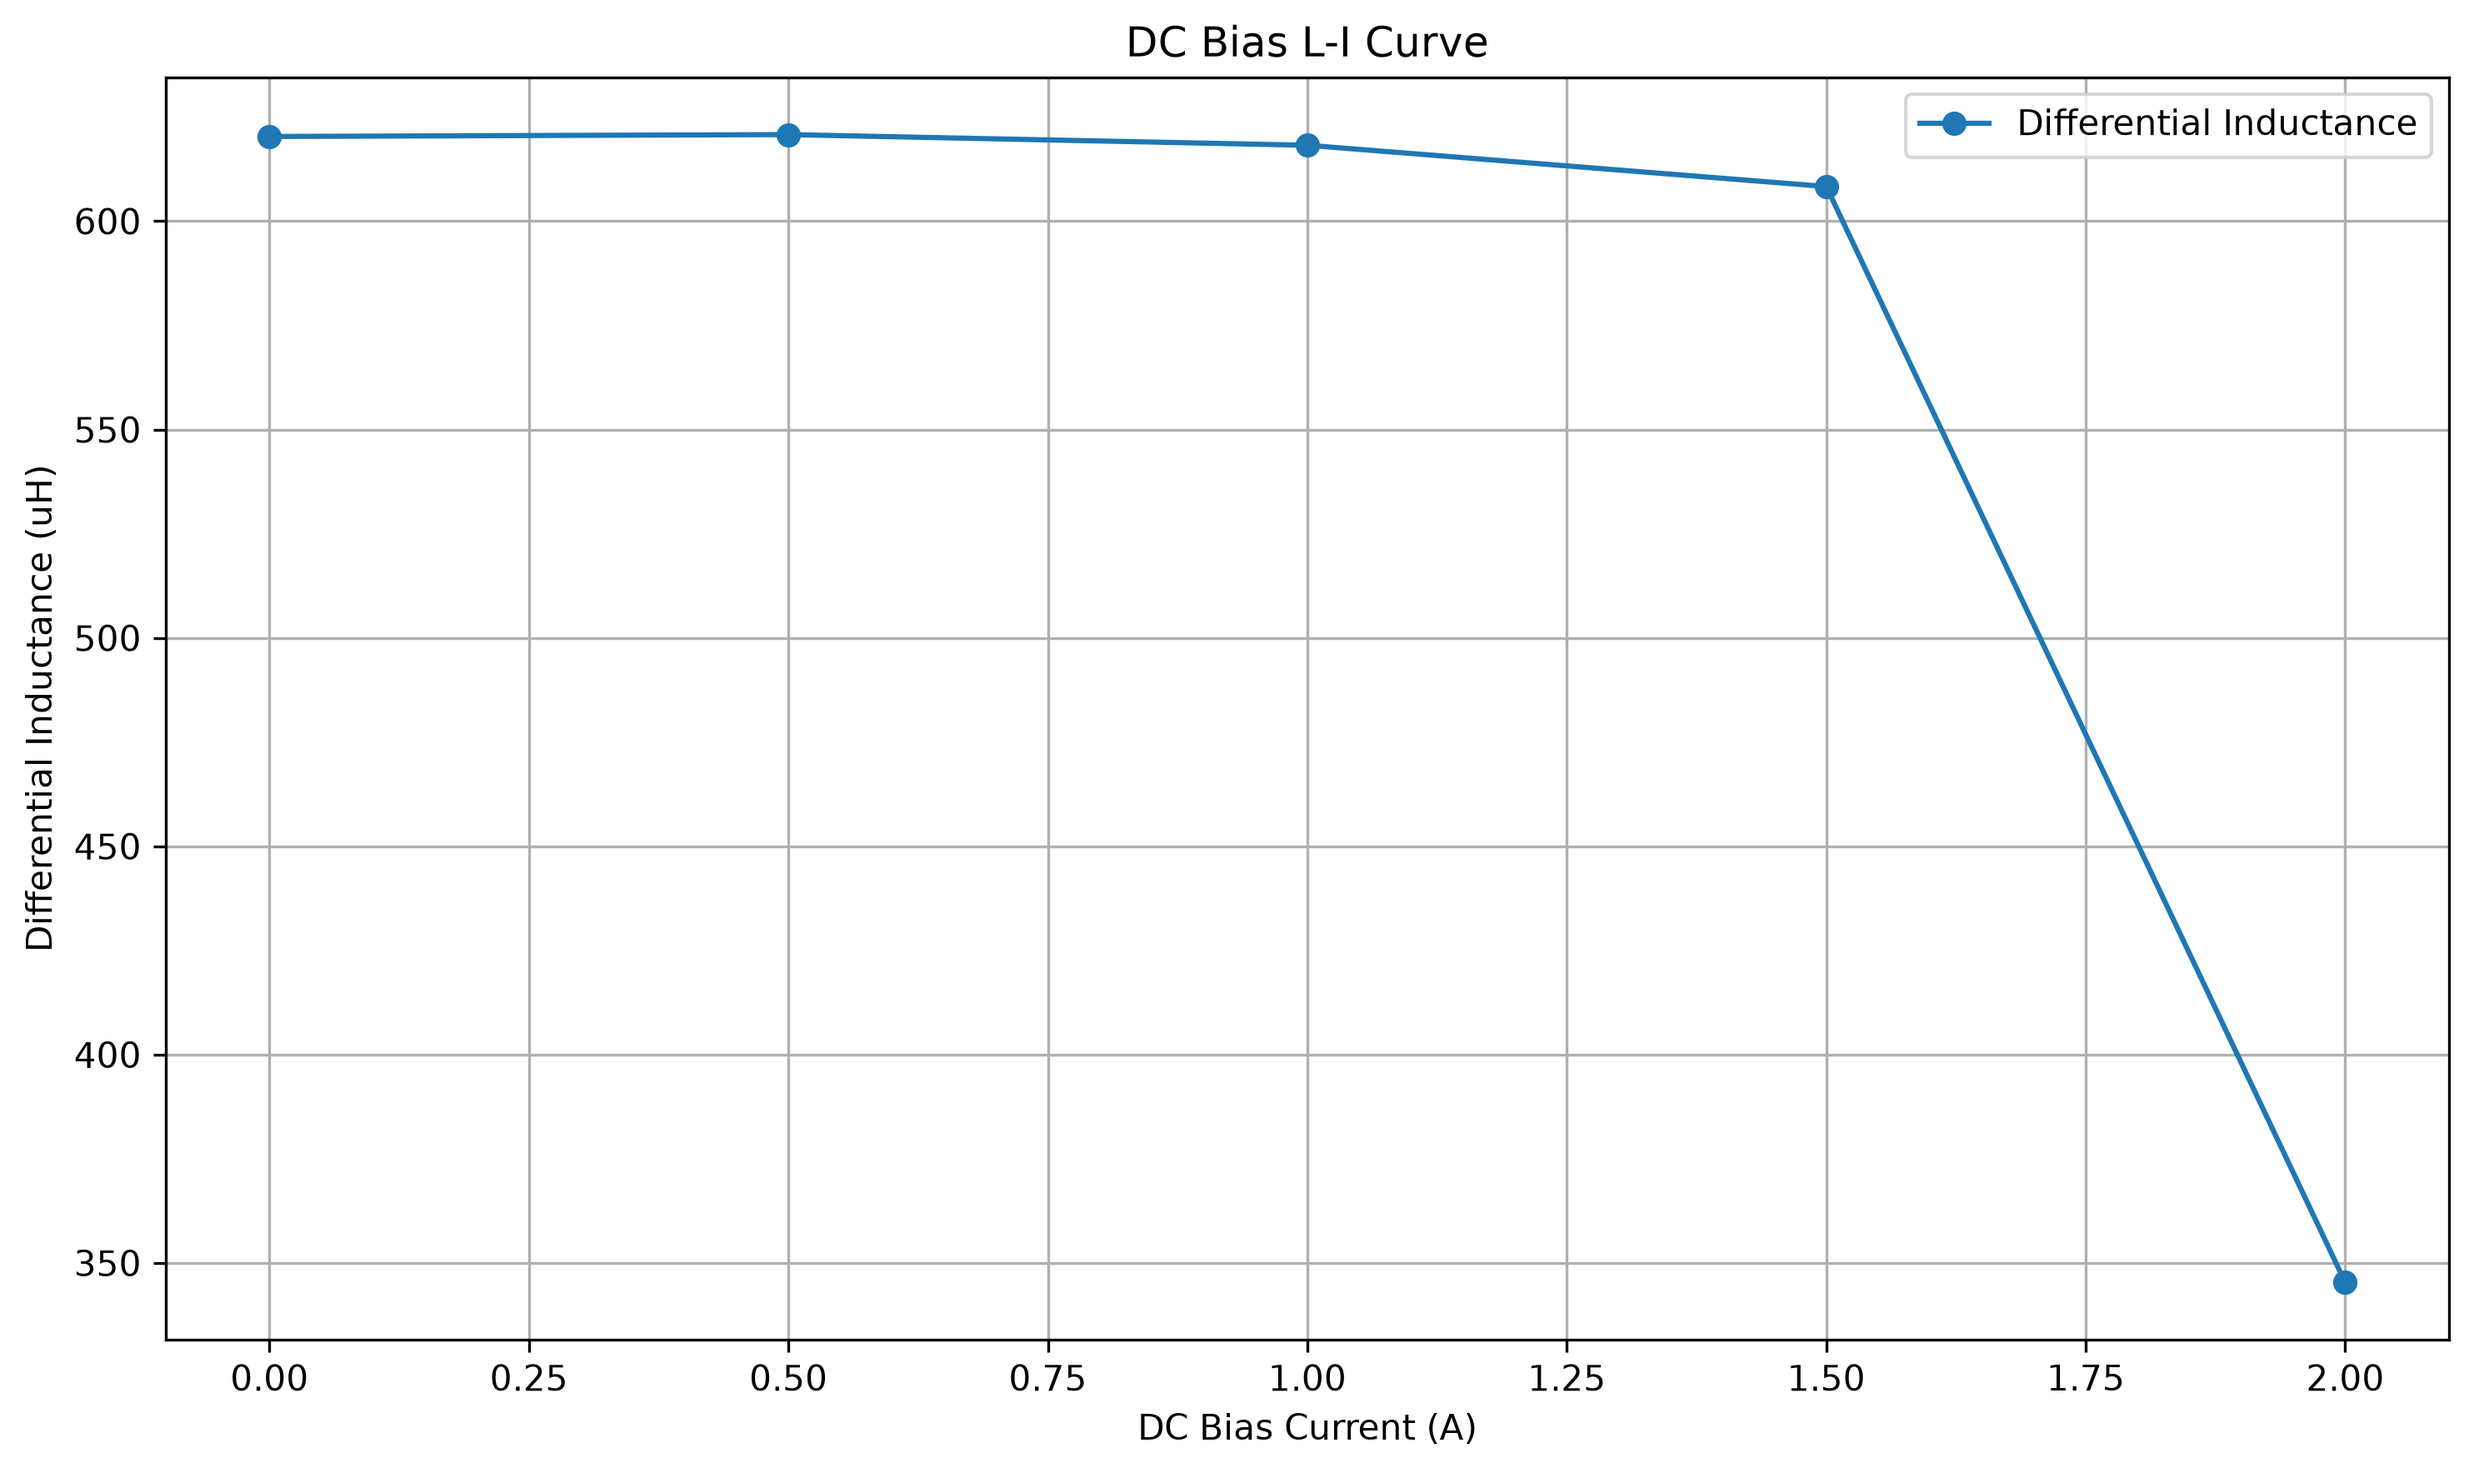
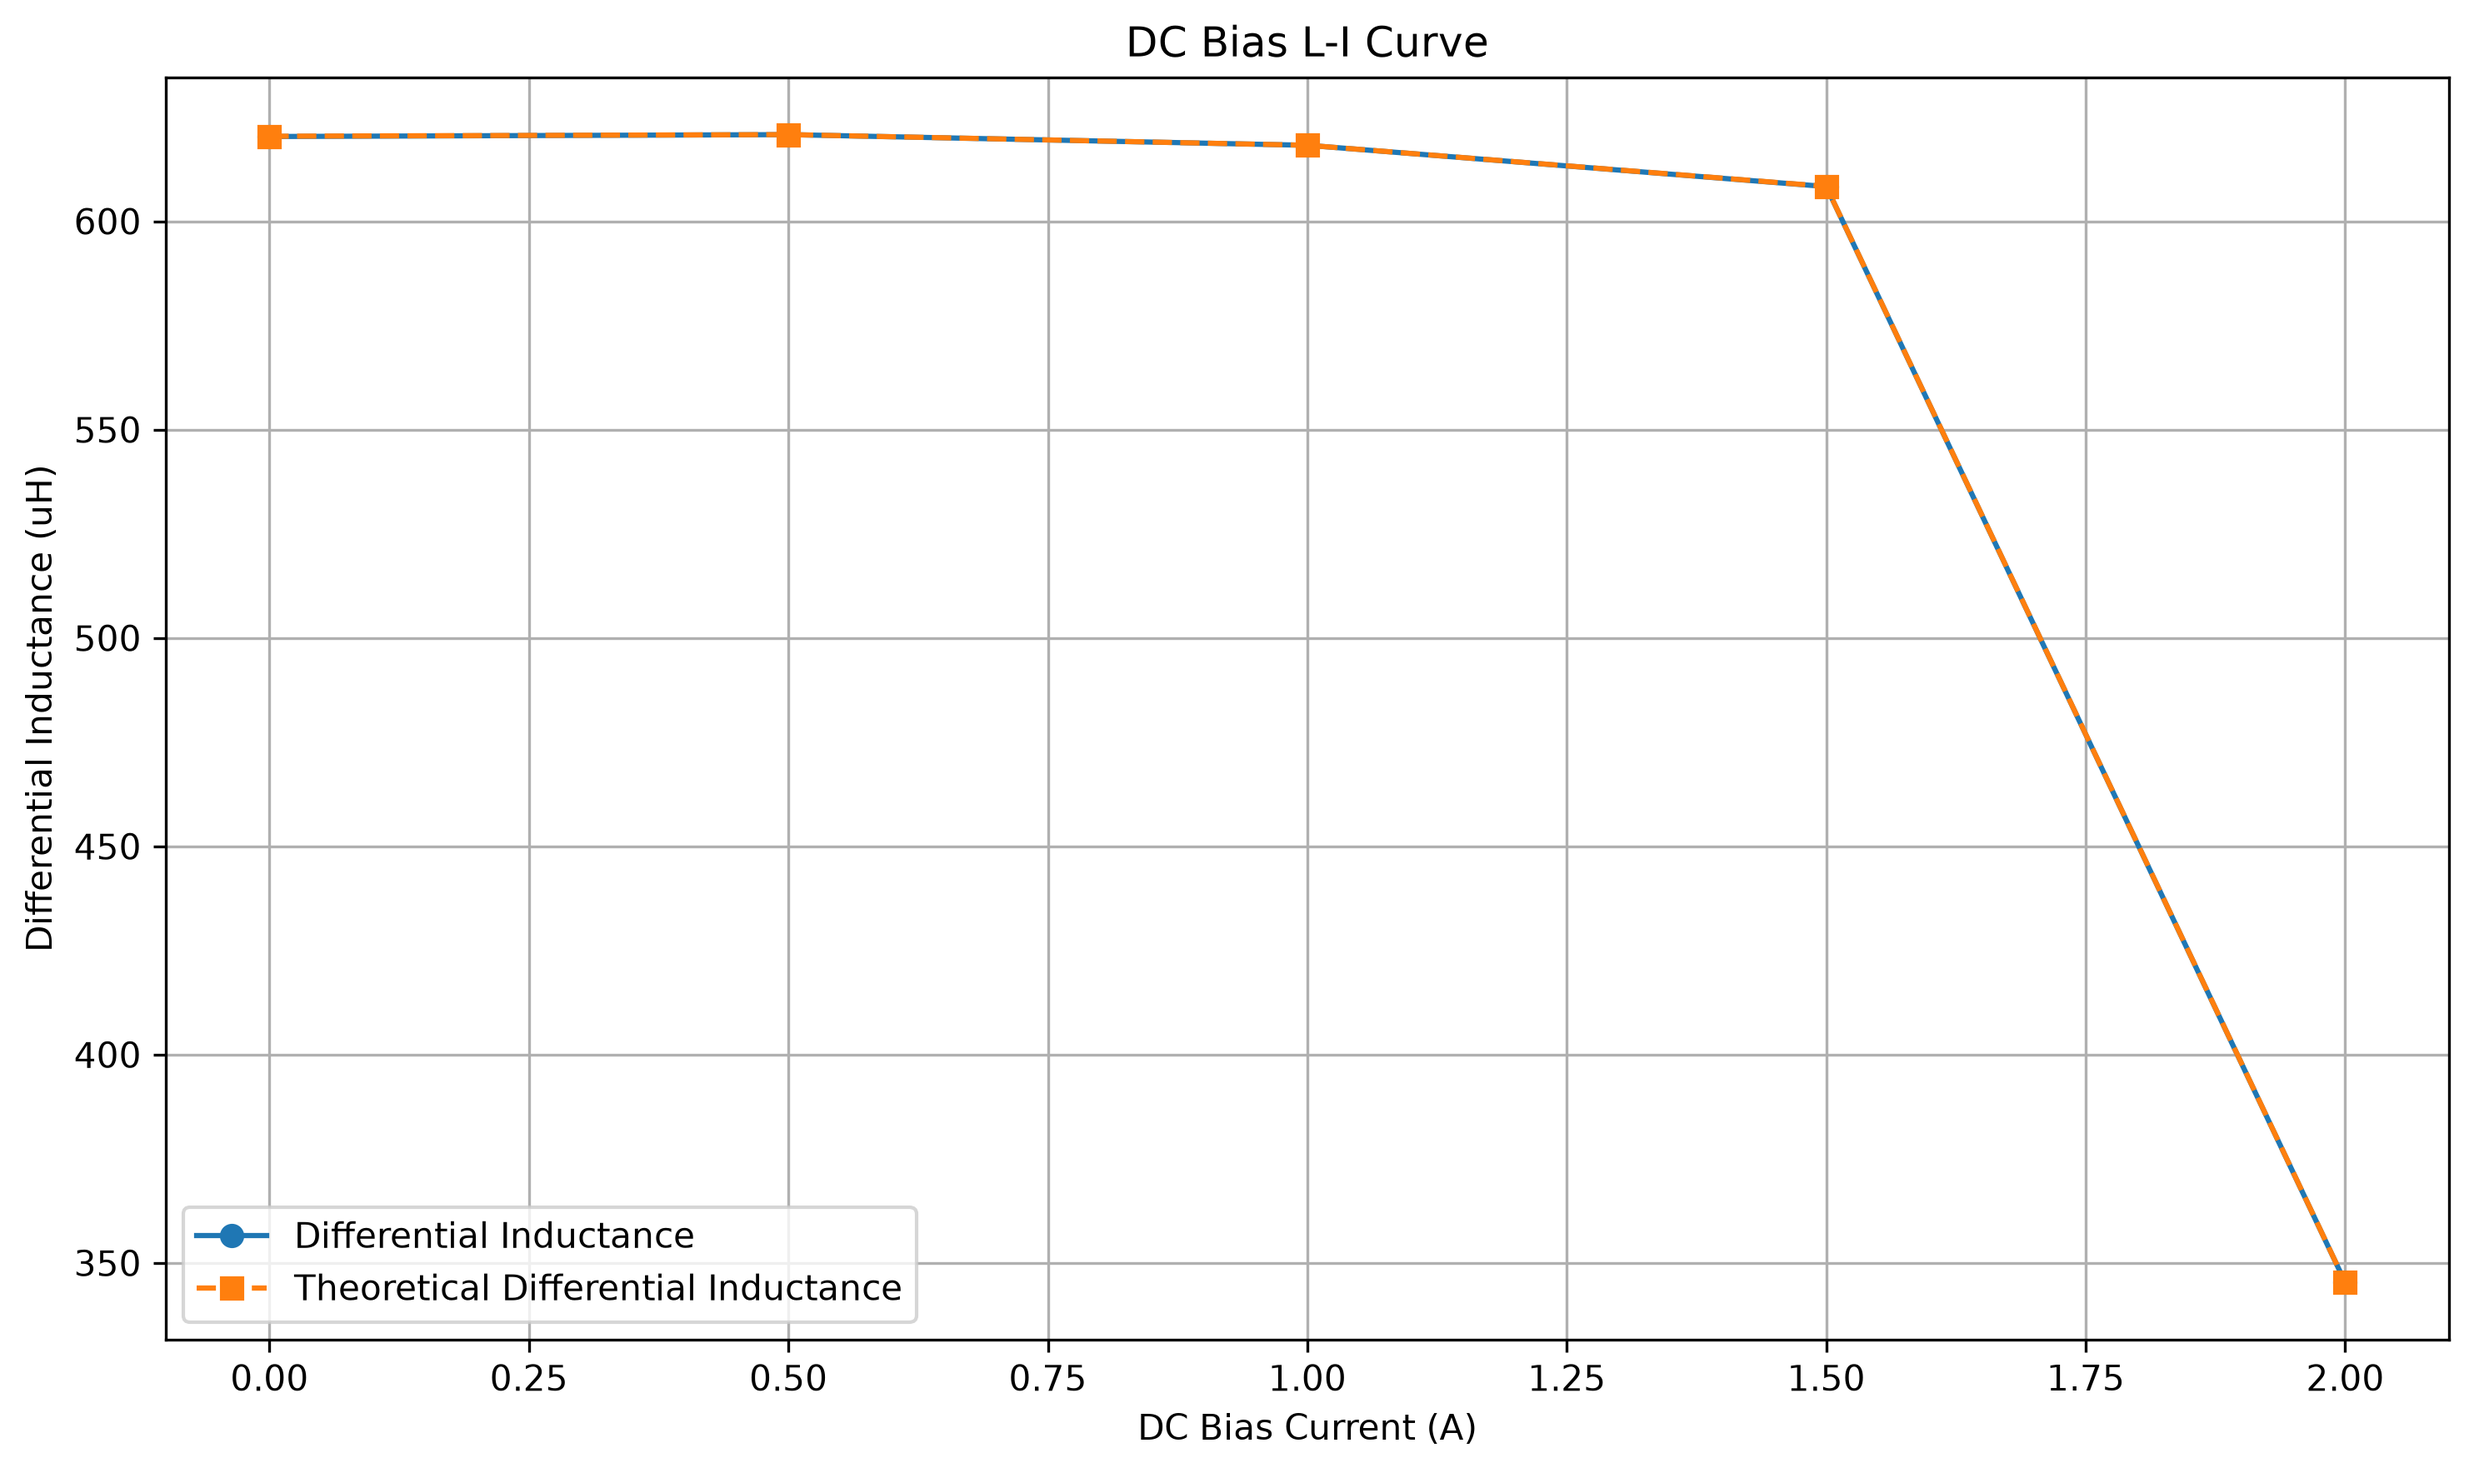
Add theoretical Ldiff comparison and validation error plots

diff --git a/peri_magnetics/models/plot_dc_bias.py b/peri_magnetics/models/plot_dc_bias.py
@@ -28,10 +28,28 @@ dc_results = mc.calculate_dc_bias_curve(
 
 
 # 결과 데이터 추출
-currents = [row["current"] for row in dc_results]
-L_diff = [row["L_diff"] * 1e6 for row in dc_results]
-B_core = [row["B_core"] for row in dc_results]
+valid_results = [
+    row for row in dc_results
+    if row["status"] == "success"
+]
 
+currents = [row["current"] for row in valid_results]
+
+L_diff = [
+    row["L_diff"] * 1e6
+    for row in valid_results
+]
+
+L_theory = [
+    row["L_theory"] * 1e6
+    for row in valid_results
+]
+
+B_core = [row["B_core"] for row in valid_results]
+validation_error = [
+    row["validation_error_percent"]
+    for row in valid_results
+]
 
 # DC Bias L-I 곡선
 plt.figure(figsize=(10, 6))
@@ -42,7 +60,13 @@ plt.plot(
     marker="o",
     label="Differential Inductance"
 )
-
+plt.plot(
+    currents,
+    L_theory,
+    marker="s",
+    linestyle="--",
+    label="Theoretical Differential Inductance"
+)
 plt.xlabel("DC Bias Current (A)")
 plt.ylabel("Differential Inductance (uH)")
 plt.title("DC Bias L-I Curve")
@@ -78,4 +102,34 @@ plt.savefig(
     dpi=300,
     bbox_inches="tight"
 )
+plt.show()
+# DC Bias Ldiff 검증 오차율 곡선
+plt.figure(figsize=(10, 6))
+
+plt.plot(
+    currents,
+    validation_error,
+    marker="o",
+    label="Ldiff Validation Error"
+)
+
+plt.axhline(
+    y=1.0,
+    linestyle="--",
+    label="Tolerance (1.0%)"
+)
+
+plt.xlabel("DC Bias Current (A)")
+plt.ylabel("Relative Error (%)")
+plt.title("DC Bias Ldiff Validation Error")
+plt.grid(True)
+plt.legend()
+plt.tight_layout()
+
+plt.savefig(
+    "peri_magnetics/results/dc_bias_validation_error.png",
+    dpi=300,
+    bbox_inches="tight"
+)
+
 plt.show()
